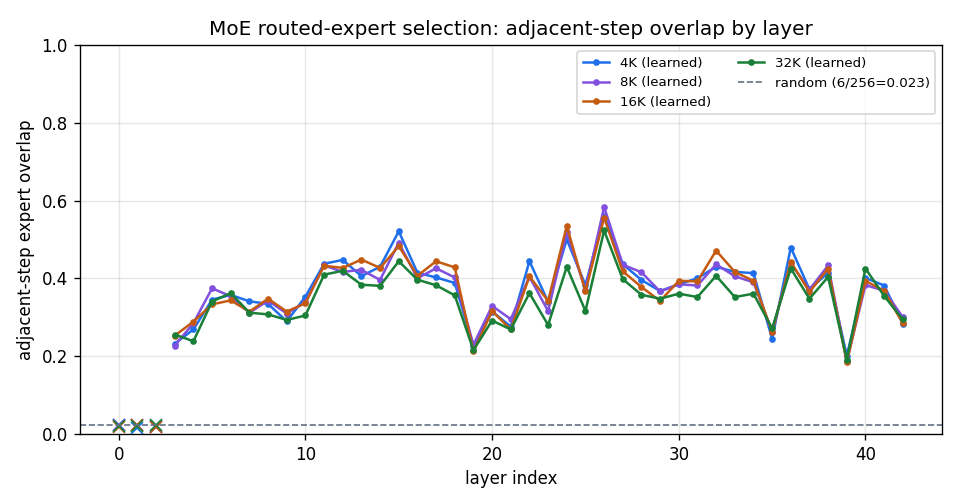
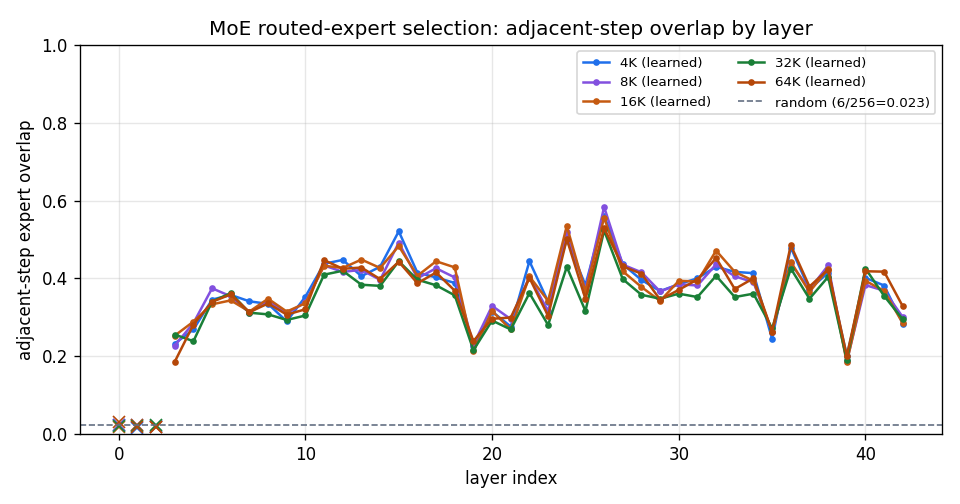
Sparse Attention Part III & IV: add the 64K sweep point
Both ds4 CPU reports now cover 4K/8K/16K/32K/64K. Part III (KV): 64K row in
all six tables; KPIs/plots updated (locality lift 1.7x->21.4x, overlap
plateaus 0.672->0.668 while lift doubles as candidates double; semantic-
over-recency ~6x even at 64K). Part IV (MoE): 64K row in the learned +
retention/working-set tables; context-independence strengthened to 5 points
(0.376/0.373/0.374/0.348/0.369) — the 32K dip recovers at 64K, confirming
it was n=1 noise. Titles/tags/plots refreshed.

Claude-Session: https://claude.ai/code/session_01Cz2EwUkKFPBe3N2CAyfRd1

diff --git a/04_sparse_attn/02_part3_cpu_kv_locality/report.html b/04_sparse_attn/02_part3_cpu_kv_locality/report.html
@@ -3,7 +3,7 @@
 <head>
 <meta charset="UTF-8">
 <meta name="viewport" content="width=device-width, initial-scale=1.0">
-<title>DeepSeek-V4 Sparse Attention — Part III: ds4 CPU KV-Selection Locality (4K–16K)</title>
+<title>DeepSeek-V4 Sparse Attention — Part III: ds4 CPU KV-Selection Locality (4K–64K)</title>
 <style>
   :root{
     color-scheme:light;
@@ -90,7 +90,7 @@
         <span class="tag">DeepSeek-V4-Flash (284B/13B MoE)</span>
         <span class="tag live">measured on CPU via ds4 (IQ2 quant)</span>
         <span class="tag">RULER niah_single_2, n=1 / length</span>
-        <span class="tag">context 4K · 8K · 16K · 32K</span>
+        <span class="tag">context 4K · 8K · 16K · 32K · 64K</span>
       </div>
     </header>
 
@@ -99,9 +99,9 @@
       <p class="lead">Part&nbsp;I measured how <b>predictable</b> DeepSeek-V4's per-token KV selection is on a GPU (vLLM/B200). Here we reproduce the core result on a completely different stack — a CPU-only C reference engine (<code class="k">ds4</code>) running the IQ2-quantized model — as a cross-check, and to instrument the exact same decode path that also emits the MoE routing trace in <a href="../03_part4_moe_locality/report.html">Part&nbsp;IV</a>. The temporal-locality picture holds.</p>
       <div class="headline">
         <div class="kpi"><div class="v">512</div><div class="l">KV entries selected per token, per CSA layer (top-k)</div></div>
-        <div class="kpi"><div class="v">0.87 &rarr; 0.67</div><div class="l">adjacent-step overlap, 4K &rarr; 32K</div></div>
-        <div class="kpi"><div class="v">1.7&times; &rarr; 10.5&times;</div><div class="l">locality lift over a random selection, rising with context</div></div>
-        <div class="kpi"><div class="v">4 / 4</div><div class="l">needle retrievals correct (4K, 8K, 16K, 32K)</div></div>
+        <div class="kpi"><div class="v">0.87 &rarr; 0.67</div><div class="l">adjacent-step overlap, 4K &rarr; 64K</div></div>
+        <div class="kpi"><div class="v">1.7&times; &rarr; 21.4&times;</div><div class="l">locality lift over a random selection, rising with context</div></div>
+        <div class="kpi"><div class="v">5 / 5</div><div class="l">needle retrievals correct (4K, 8K, 16K, 32K, 64K)</div></div>
       </div>
       <div class="callout"><b>Plain-language thesis.</b> The set of compressed-KV entries a token attends to is largely the same as the previous token's — and the further from random that gets (higher <i>lift</i>) as context grows, the more a small "hot set" in fast memory would pay off. This CPU run reproduces the GPU finding on an independent code path.</div>
     </section>
@@ -120,7 +120,7 @@
       <h2><span class="num">§2</span>Setup &amp; instrumentation</h2>
       <ul class="notes">
         <li><b>Engine.</b> <code class="k">ds4</code> — a single-file C CPU inference engine for DeepSeek-V4 — running <b>DeepSeek-V4-Flash</b> at IQ2 quantization (≈81&nbsp;GB), 64 threads, greedy decode (<code class="k">temp&nbsp;0</code>).</li>
-        <li><b>Task.</b> RULER <code class="k">niah_single_2</code> (single needle-in-a-haystack retrieval) at 4K, 8K, 16K, 32K tokens; one sample per length. The model retrieves the buried fact correctly at all four lengths.</li>
+        <li><b>Task.</b> RULER <code class="k">niah_single_2</code> (single needle-in-a-haystack retrieval) at 4K, 8K, 16K, 32K, 64K tokens; one sample per length. The model retrieves the buried fact correctly at all five lengths.</li>
         <li><b>Trace.</b> Every time a CSA layer's indexer selects its top-512, the selected compressed indices (and scores) are written to a JSONL trace — decode phase only — one record per (layer, token). 21 CSA layers of the 43 total.</li>
         <li><b>Analysis.</b> The trace is ingested to Parquet and reduced to the locality metrics below with the same code used for the GPU study, so the two are directly comparable.</li>
       </ul>
@@ -131,9 +131,10 @@
           <tr><td class="rowlabel">8K</td><td class="num">7,485</td><td class="num">163</td><td class="num">1,891</td><td class="num">27.1%</td><td class="num">~1h53m</td></tr>
           <tr><td class="rowlabel">16K</td><td class="num">16,264</td><td class="num">117</td><td class="num">4,080</td><td class="num">12.5%</td><td class="num">~4h22m</td></tr>
           <tr><td class="rowlabel">32K</td><td class="num">32,041</td><td class="num">117</td><td class="num">8,025</td><td class="num">6.4%</td><td class="num">~10h11m</td></tr>
+          <tr><td class="rowlabel">64K</td><td class="num">65,416</td><td class="num">158</td><td class="num">16,374</td><td class="num">3.1%</td><td class="num">~25h54m</td></tr>
         </tbody>
       </table>
-      <p class="cap">"Kept fraction" = 512 / candidate entries. As context grows the same 512-budget is drawn from a larger pool, so sparsity rises from ~2&times; (4K) to ~16&times; (32K).</p>
+      <p class="cap">"Kept fraction" = 512 / candidate entries. As context grows the same 512-budget is drawn from a larger pool, so sparsity rises from ~2&times; (4K) to ~32&times; (64K).</p>
     </section>
 
     <section class="card" id="metrics">
@@ -160,11 +161,12 @@
           <tr><td class="rowlabel">8K</td><td class="num">1,891</td><td class="num">3.7&times;</td><td class="num">0.790</td><td class="num">0.662</td><td class="num">0.210</td><td class="num">2.92&times;</td></tr>
           <tr><td class="rowlabel">16K</td><td class="num">4,080</td><td class="num">8.0&times;</td><td class="num">0.718</td><td class="num">0.573</td><td class="num">0.282</td><td class="num">5.72&times;</td></tr>
           <tr><td class="rowlabel">32K</td><td class="num">8,025</td><td class="num">15.7&times;</td><td class="num">0.672</td><td class="num">0.520</td><td class="num">0.328</td><td class="num">10.53&times;</td></tr>
+          <tr><td class="rowlabel">64K</td><td class="num">16,374</td><td class="num">32.0&times;</td><td class="num">0.668</td><td class="num">0.516</td><td class="num">0.332</td><td class="num">21.37&times;</td></tr>
         </tbody>
       </table>
       <figure>
         <img src="assets/kv_01_context_scaling.png" alt="KV adjacent overlap and locality lift versus context length">
-        <figcaption class="cap">Adjacent overlap (left axis) declines gently while locality lift (right axis) climbs 1.7&times;&rarr;10.5&times; from 4K to 32K. These CPU/IQ2 numbers match the GPU/vLLM values in Part&nbsp;I to within a few thousandths (e.g. 16K: 0.718 here vs 0.746 there).</figcaption>
+        <figcaption class="cap">Adjacent overlap (left axis) declines gently while locality lift (right axis) climbs 1.7&times;&rarr;21.4&times; from 4K to 64K &mdash; note overlap plateaus (0.672&rarr;0.668) while lift doubles, because the candidate pool doubles. These CPU/IQ2 numbers match the GPU/vLLM values in Part&nbsp;I to within a few thousandths (e.g. 16K: 0.718 here vs 0.746 there).</figcaption>
       </figure>
       <div class="callout win"><b>Cross-stack agreement.</b> A completely separate CPU reference engine, at a different quantization, reproduces Part&nbsp;I's context-scaling curve. Temporal locality of KV selection is a property of the model, not the runtime.</div>
     </section>
@@ -179,19 +181,21 @@
           <tr><td class="rowlabel">8K</td><td class="num">0.790</td><td class="num">0.750</td><td class="num">0.712</td><td class="num">0.681</td><td class="num">0.669</td><td class="num">0.630</td><td class="num">0.606</td></tr>
           <tr><td class="rowlabel">16K</td><td class="num">0.718</td><td class="num">0.667</td><td class="num">0.619</td><td class="num">0.573</td><td class="num">0.532</td><td class="num">0.511</td><td class="num">0.498</td></tr>
           <tr><td class="rowlabel">32K</td><td class="num">0.672</td><td class="num">0.622</td><td class="num">0.572</td><td class="num">0.541</td><td class="num">0.518</td><td class="num">0.467</td><td class="num">0.457</td></tr>
+          <tr><td class="rowlabel">64K</td><td class="num">0.668</td><td class="num">0.610</td><td class="num">0.554</td><td class="num">0.508</td><td class="num">0.489</td><td class="num">0.489</td><td class="num">0.469</td></tr>
         </tbody>
       </table>
       <figure>
         <img src="assets/kv_02_retention.png" alt="KV retention versus decode lag for each context length">
-        <figcaption class="cap">Retention vs lag. Even 64 steps back, 4K keeps ~75% and 32K ~46% of the current selection.</figcaption>
+        <figcaption class="cap">Retention vs lag. Even 64 steps back, 4K keeps ~75% and 64K ~47% of the current selection.</figcaption>
       </figure>
-      <p>The <b>working-set ratio</b> shrinks fast with the window — the same entries keep recurring, so a compact hot set covers many steps. Over a 64-step window a CSA layer's union of selections is only 2.6% (4K) to 6.7% (32K) of <code class="k">64&times;512</code>:</p>
+      <p>The <b>working-set ratio</b> shrinks fast with the window — the same entries keep recurring, so a compact hot set covers many steps. Over a 64-step window a CSA layer's union of selections is only 2.6% (4K) to 7.9% (64K) of <code class="k">64&times;512</code>:</p>
       <table>
         <thead><tr><th>working-set ratio, window w &rarr;</th><th class="num">1</th><th class="num">2</th><th class="num">4</th><th class="num">8</th><th class="num">16</th><th class="num">32</th><th class="num">64</th></tr></thead>
         <tbody>
           <tr><td class="rowlabel">4K</td><td class="num">1.000</td><td class="num">0.565</td><td class="num">0.317</td><td class="num">0.176</td><td class="num">0.096</td><td class="num">0.051</td><td class="num">0.026</td></tr>
           <tr><td class="rowlabel">16K</td><td class="num">1.000</td><td class="num">0.640</td><td class="num">0.409</td><td class="num">0.259</td><td class="num">0.163</td><td class="num">0.099</td><td class="num">0.056</td></tr>
           <tr><td class="rowlabel">32K</td><td class="num">1.000</td><td class="num">0.663</td><td class="num">0.437</td><td class="num">0.287</td><td class="num">0.185</td><td class="num">0.115</td><td class="num">0.067</td></tr>
+          <tr><td class="rowlabel">64K</td><td class="num">1.000</td><td class="num">0.665</td><td class="num">0.445</td><td class="num">0.301</td><td class="num">0.202</td><td class="num">0.130</td><td class="num">0.079</td></tr>
         </tbody>
       </table>
     </section>
@@ -199,7 +203,7 @@
     <section class="card" id="semantic">
       <h2><span class="num">§6</span>Semantic reuse, not just recency</h2>
       <p class="lead">Is the model just re-picking the most-recent entries, or genuinely returning to old, relevant ones?</p>
-      <p>Compare the actual adjacent overlap to a <b>recency baseline</b> — the overlap with the most-recent 512 entries. If selection were pure recency, the two would match. Instead the gap widens with context: at 32K the model's selection is <b>6.7&times;</b> more self-similar than a recency policy would explain.</p>
+      <p>Compare the actual adjacent overlap to a <b>recency baseline</b> — the overlap with the most-recent 512 entries. If selection were pure recency, the two would match. Instead the gap widens with context: even at 64K the model's selection is <b>~6&times;</b> more self-similar than a recency policy would explain.</p>
       <table>
         <thead><tr><th>Context</th><th class="num">adjacent overlap</th><th class="num">recency baseline</th><th class="num">ratio</th></tr></thead>
         <tbody>
@@ -207,6 +211,7 @@
           <tr><td class="rowlabel">8K</td><td class="num">0.790</td><td class="num">0.308</td><td class="num">2.6&times;</td></tr>
           <tr><td class="rowlabel">16K</td><td class="num">0.718</td><td class="num">0.157</td><td class="num">4.6&times;</td></tr>
           <tr><td class="rowlabel">32K</td><td class="num">0.672</td><td class="num">0.100</td><td class="num">6.7&times;</td></tr>
+          <tr><td class="rowlabel">64K</td><td class="num">0.668</td><td class="num">0.116</td><td class="num">5.8&times;</td></tr>
         </tbody>
       </table>
       <div class="callout win"><b>Interpretation.</b> The selected set is <b>semantically</b> sticky — it keeps returning to the same old, relevant entries (here, the needle block), far beyond what a "keep the latest" policy captures. A prefetcher must track content, not just recency.</div>
@@ -222,6 +227,7 @@
           <tr><td class="rowlabel">8K</td><td class="num">0.779</td><td class="num">0.778</td><td class="num">0.812</td></tr>
           <tr><td class="rowlabel">16K</td><td class="num">0.713</td><td class="num">0.691</td><td class="num">0.750</td></tr>
           <tr><td class="rowlabel">32K</td><td class="num">0.659</td><td class="num">0.644</td><td class="num">0.711</td></tr>
+          <tr><td class="rowlabel">64K</td><td class="num">0.651</td><td class="num">0.655</td><td class="num">0.698</td></tr>
         </tbody>
       </table>
       <figure>
@@ -233,10 +239,10 @@
     <section class="card" id="takeaways">
       <h2><span class="num">§8</span>Takeaways</h2>
       <ul class="notes">
-        <li>An <b>independent CPU reference engine (ds4, IQ2)</b> reproduces the GPU/vLLM temporal-locality result: adjacent overlap 0.87&rarr;0.67 over 4K&rarr;32K, locality lift 1.7&times;&rarr;10.5&times;.</li>
+        <li>An <b>independent CPU reference engine (ds4, IQ2)</b> reproduces the GPU/vLLM temporal-locality result: adjacent overlap 0.87&rarr;0.67 over 4K&rarr;64K, locality lift 1.7&times;&rarr;21.4&times;.</li>
         <li>Locality <b>lift rises with context</b> — the selection gets more non-random exactly as the KV cache gets expensive.</li>
-        <li>Reuse is <b>semantic, not merely recent</b> — up to 6.7&times; beyond a recency baseline at 32K.</li>
-        <li>A compact hot set works: a 64-step working set is ≤6.7% of <code class="k">64&times;512</code>.</li>
+        <li>Reuse is <b>semantic, not merely recent</b> — ~6&times; beyond a recency baseline even at 64K.</li>
+        <li>A compact hot set works: a 64-step working set is ≤7.9% of <code class="k">64&times;512</code>.</li>
         <li>Deep layers are the most stable → per-layer budgets make sense.</li>
         <li>This CPU decode path is the same one that emits the MoE routing trace in <a href="../03_part4_moe_locality/report.html"><b>Part&nbsp;IV</b></a>.</li>
       </ul>
@@ -245,7 +251,7 @@
     <section class="card" id="limits">
       <h2><span class="num">§9</span>Honest limitations</h2>
       <ul class="notes">
-        <li><b>n = 1 per length.</b> One RULER sample each at 4K/8K/16K/32K — no cross-sample confidence intervals (Part&nbsp;I's 60+ prompts supply that; the point here is cross-stack agreement).</li>
+        <li><b>n = 1 per length.</b> One RULER sample each at 4K/8K/16K/32K/64K — no cross-sample confidence intervals (Part&nbsp;I's 60+ prompts supply that; the point here is cross-stack agreement).</li>
         <li><b>IQ2 quantization + CPU reference path.</b> Selections come from a heavily quantized model on a reference (non-GPU) kernel path; quantization may shift selections slightly versus full precision.</li>
         <li><b>Logical compressed-KV indices.</b> Overlaps are over logical entry ids, not a physical cache — an upper bound that ignores prefetch timing and bandwidth.</li>
         <li><b>Greedy decode, RULER needle task.</b> A single retrieval workload; broader tasks would strengthen external validity.</li>

diff --git a/04_sparse_attn/03_part4_moe_locality/report.html b/04_sparse_attn/03_part4_moe_locality/report.html
@@ -92,7 +92,7 @@
         <span class="tag">DeepSeek-V4-Flash (256 experts / 6 active)</span>
         <span class="tag live">measured on CPU via ds4 (IQ2 quant)</span>
         <span class="tag">RULER niah_single_2, n=1 / length</span>
-        <span class="tag">context 4K · 8K · 16K · 32K</span>
+        <span class="tag">context 4K · 8K · 16K · 32K · 64K</span>
       </div>
     </header>
 
@@ -103,7 +103,7 @@
         <div class="kpi"><div class="v">6 / 256</div><div class="l">experts activated per token, per layer (+1 shared)</div></div>
         <div class="kpi"><div class="v">~2.2 / 6</div><div class="l">experts carried over from the previous token (learned layers)</div></div>
         <div class="kpi"><div class="v">16&times;</div><div class="l">more self-similar than random expert choice (6/256)</div></div>
-        <div class="kpi"><div class="v">flat</div><div class="l">routing locality barely moves across 4K&ndash;32K</div></div>
+        <div class="kpi"><div class="v">flat</div><div class="l">routing locality barely moves across 4K&ndash;64K</div></div>
       </div>
       <div class="callout"><b>Plain-language thesis.</b> A token's chosen experts are substantially the same as the previous token's — about <b>2 of 6</b> persist step to step, 16&times; above chance. Unlike KV selection, this holds <i>independent of context length</i>, because the expert pool is fixed at 256. The three deterministic hash-routed layers are the exception: they are <i>not</i> temporally local, by construction.</div>
     </section>
@@ -124,7 +124,7 @@
       <ul class="notes">
         <li><b>Same run, second trace.</b> We instrumented the <code class="k">ds4</code> CPU decode path so that, right after the router selects its 6 experts, it logs <code class="k">(layer, decode&nbsp;step, token, the 6 expert ids, their weights)</code> — one record per (layer, token), decode phase only. This runs alongside the KV-indexer trace of <a href="../02_part3_cpu_kv_locality/report.html">Part&nbsp;III</a>, from the <i>same</i> forward pass.</li>
         <li><b>Coverage.</b> MoE routing happens in <b>every</b> layer's FFN (43 layers) — denser than the CSA indexer's 21 layers. Of those, 3 are hash-routed and 40 are learned-routed.</li>
-        <li><b>Workload.</b> RULER <code class="k">niah_single_2</code> at 4K, 8K, 16K, 32K; greedy decode; DeepSeek-V4-Flash at IQ2. 117–163 decode steps per run &times; 43 layers &times; 6 experts.</li>
+        <li><b>Workload.</b> RULER <code class="k">niah_single_2</code> at 4K, 8K, 16K, 32K, 64K; greedy decode; DeepSeek-V4-Flash at IQ2. 117–163 decode steps per run &times; 43 layers &times; 6 experts.</li>
         <li><b>Analysis.</b> The same id-set locality metrics used for KV selection, applied to the 6-expert sets, with hash and learned layers reported separately.</li>
       </ul>
     </section>
@@ -151,9 +151,10 @@
           <tr><td class="rowlabel">8K</td><td class="num">0.373</td><td class="num">2.24</td><td class="num">0.256</td><td class="num">0.627</td><td class="num">15.9&times;</td></tr>
           <tr><td class="rowlabel">16K</td><td class="num">0.374</td><td class="num">2.24</td><td class="num">0.256</td><td class="num">0.626</td><td class="num">16.0&times;</td></tr>
           <tr><td class="rowlabel">32K</td><td class="num">0.348</td><td class="num">2.09</td><td class="num">0.235</td><td class="num">0.652</td><td class="num">14.9&times;</td></tr>
+          <tr><td class="rowlabel">64K</td><td class="num">0.369</td><td class="num">2.21</td><td class="num">0.252</td><td class="num">0.631</td><td class="num">15.7&times;</td></tr>
         </tbody>
       </table>
-      <p class="cap">Learned layers only (hash layers excluded). "Experts carried / 6" = adjacent overlap &times; 6. The 32K point dips slightly (0.348 vs ~0.374) — within n=1 content variation, and still ~15&times; random with no KV-like context trend.</p>
+      <p class="cap">Learned layers only (hash layers excluded). "Experts carried / 6" = adjacent overlap &times; 6. The 32K point dips slightly (0.348) but 64K returns to 0.369 — confirming the dip is n=1 content variation, not a trend. Every length stays ~15&times; random, with no KV-like context scaling.</p>
       <figure>
         <img src="assets/moe_01_adjacent_overlap_by_layer.png" alt="MoE adjacent-step expert overlap by layer">
         <figcaption class="cap">Adjacent-step expert overlap per layer. Learned layers (circles) sit near 0.37 — 16&times; the dashed random line at 0.023 — while the three hash-routed layers (×, near the floor) route almost independently step to step.</figcaption>
@@ -163,10 +164,10 @@
     <section class="card" id="context">
       <h2><span class="num">§5</span>It is context-independent — unlike KV selection</h2>
       <p class="lead">The single most striking contrast with the attention side.</p>
-      <p>KV-selection locality <i>changes</i> strongly with context: as the candidate pool grows, the lift rises (Part&nbsp;III: 1.7&times;&rarr;10.5&times; over 4K&rarr;32K). MoE routing does <b>not</b> — its pool is <b>fixed at 256 experts</b> regardless of context, so the routing-locality regime barely moves. The adjacent overlap is <b>0.376 / 0.373 / 0.374 / 0.348</b> at 4K / 8K / 16K / 32K — flat within ~0.03 with no systematic trend (the 32K dip is within n=1 content variation), versus KV's 0.87&rarr;0.67 over the same span.</p>
+      <p>KV-selection locality <i>changes</i> strongly with context: as the candidate pool grows, the lift rises (Part&nbsp;III: 1.7&times;&rarr;21.4&times; over 4K&rarr;64K). MoE routing does <b>not</b> — its pool is <b>fixed at 256 experts</b> regardless of context, so the routing-locality regime barely moves. The adjacent overlap is <b>0.376 / 0.373 / 0.374 / 0.348 / 0.369</b> at 4K / 8K / 16K / 32K / 64K — flat within ~0.03 with no systematic trend (the 32K dip recovers at 64K, so it is n=1 content variation), versus KV's 0.87&rarr;0.67 with lift climbing 1.7&times;&rarr;21.4&times; over the same span.</p>
       <figure>
         <img src="assets/moe_05_context_scaling.png" alt="MoE locality versus context length, essentially flat">
-        <figcaption class="cap">MoE adjacent overlap and lift are flat across context length (note the lift axis is 0-based — the tiny 32K dip is 16.0&rarr;14.9&times;, not a crash). Expert-selection behavior is near-interchangeable across 4K&ndash;32K — a clean consequence of the fixed 256-expert pool.</figcaption>
+        <figcaption class="cap">MoE adjacent overlap and lift are flat across context length (note the lift axis is 0-based — the 32K dip is 16.0&rarr;14.9&times; and 64K recovers to 15.7&times;, not a trend). Expert-selection behavior is near-interchangeable across 4K&ndash;64K — a clean consequence of the fixed 256-expert pool.</figcaption>
       </figure>
       <div class="callout"><b>Why it matters.</b> Sweeping context length is the right axis for studying <i>KV</i> locality (it changes the sparsity regime) but not for <i>MoE</i> locality (it does not). For expert caching, the informative axis is decode <i>length</i> — how long a hot-expert set stays warm — not prompt length.</div>
     </section>
@@ -197,7 +198,7 @@
       <p>Over a decode, each of the 40 learned layers routes with a clear favored set: its single most-used expert fires for <b>22%–85%</b> of tokens (uniform would be 2.3%), just <b>7–32 experts cover 50%</b> of the layer's routing, and normalized entropy is 0.63–0.85 (below the uniform 1.0). The 3 hash layers are near-uniform (top-expert rate 0.12–0.16, ~50 experts for 50%, entropy 0.92) — the control. Yet every learned layer still <i>touches ~half</i> the 256-pool (88–171 distinct experts), so the shape is a <b>concentrated core plus a long exploring tail</b>, never a fixed 6. The peakiest layers (L14, L15: one expert on the committee for 85% of tokens; 7 experts do half the work) cluster mid-stack; the flattest learned layer is L39 (0.22).</p>
 
       <h3>Static preference vs dynamic correlation</h3>
-      <p>Split each layer's overlap into <b>static preference</b> — the overlap you'd get if consecutive tokens were <i>independent</i> draws from that layer's own usage distribution — and <b>dynamic correlation</b> — the excess on top. For the learned layers (consistent across all four lengths: static ~0.17, dynamic ~2.3&times;, corr(static,observed) ≈ +0.85, corr(dynamic,concentration) ≈ &minus;0.82):</p>
+      <p>Split each layer's overlap into <b>static preference</b> — the overlap you'd get if consecutive tokens were <i>independent</i> draws from that layer's own usage distribution — and <b>dynamic correlation</b> — the excess on top. For the learned layers (consistent across all five lengths: static ~0.17, dynamic ~2.3&times;, corr(static,observed) ≈ +0.85, corr(dynamic,concentration) ≈ &minus;0.83):</p>
       <table>
         <thead><tr><th>component</th><th class="num">adjacent overlap</th><th class="num">× over uniform</th><th class="num">what it is</th></tr></thead>
         <tbody>
@@ -236,6 +237,7 @@
           <tr><td class="rowlabel">8K</td><td class="num">0.373</td><td class="num">0.270</td><td class="num">0.207</td><td class="num">0.173</td><td class="num">0.176</td><td class="num">0.150</td><td class="num">0.127</td></tr>
           <tr><td class="rowlabel">16K</td><td class="num">0.374</td><td class="num">0.270</td><td class="num">0.214</td><td class="num">0.167</td><td class="num">0.134</td><td class="num">0.153</td><td class="num">0.144</td></tr>
           <tr><td class="rowlabel">32K</td><td class="num">0.348</td><td class="num">0.258</td><td class="num">0.205</td><td class="num">0.180</td><td class="num">0.180</td><td class="num">0.143</td><td class="num">0.136</td></tr>
+          <tr><td class="rowlabel">64K</td><td class="num">0.369</td><td class="num">0.272</td><td class="num">0.214</td><td class="num">0.171</td><td class="num">0.163</td><td class="num">0.164</td><td class="num">0.160</td></tr>
         </tbody>
       </table>
       <figure>
@@ -249,6 +251,7 @@
           <tr><td class="rowlabel">4K</td><td class="num">1.000</td><td class="num">0.810</td><td class="num">0.666</td><td class="num">0.546</td><td class="num">0.429</td><td class="num">0.311</td><td class="num">0.200</td></tr>
           <tr><td class="rowlabel">16K</td><td class="num">1.000</td><td class="num">0.810</td><td class="num">0.664</td><td class="num">0.537</td><td class="num">0.420</td><td class="num">0.307</td><td class="num">0.195</td></tr>
           <tr><td class="rowlabel">32K</td><td class="num">1.000</td><td class="num">0.823</td><td class="num">0.677</td><td class="num">0.551</td><td class="num">0.427</td><td class="num">0.302</td><td class="num">0.194</td></tr>
+          <tr><td class="rowlabel">64K</td><td class="num">1.000</td><td class="num">0.813</td><td class="num">0.666</td><td class="num">0.542</td><td class="num">0.429</td><td class="num">0.310</td><td class="num">0.198</td></tr>
         </tbody>
       </table>
       <figure>
@@ -273,7 +276,7 @@
       <ul class="notes">
         <li><b>Per-layer structure:</b> every learned layer keeps a preferred committee (7–32 experts do half its routing, one expert often used in the majority of tokens); the ~16× lift ≈ <b>7.4× static preference × 2.3× temporal correlation</b>. Early layers = fixed specialists, deep layers = context trackers; hash layers are near-uniform.</li>
         <li>Learned MoE routing is <b>strongly temporally local</b>: ~0.374 adjacent overlap (~2.2 of 6 experts persist), <b>16&times;</b> the 6/256 random baseline.</li>
-        <li>It is <b>context-independent</b> (0.35–0.38 across 4K/8K/16K/32K, no systematic trend) — the fixed 256-expert pool means prompt length does not change the regime. This contrasts sharply with KV-selection locality, which strengthens with context (lift 1.7&times;&rarr;10.5&times;).</li>
+        <li>It is <b>context-independent</b> (0.35–0.38 across 4K/8K/16K/32K/64K, no systematic trend) — the fixed 256-expert pool means prompt length does not change the regime. This contrasts sharply with KV-selection locality, which strengthens with context (lift 1.7&times;&rarr;10.5&times;).</li>
         <li>The <b>3 hash-routed layers are not local</b> (≈ random) — a property of deterministic token-id routing, reported separately.</li>
         <li>Retention has a <b>durable core</b> (still 6&times; random at lag 64) but the <b>working set is broad</b> (~47% of experts over a full decode).</li>
         <li>Collected from the <b>same decode pass</b> as the KV trace in <a href="../02_part3_cpu_kv_locality/report.html"><b>Part&nbsp;III</b></a>, so attention- and FFN-sparsity are aligned per (layer, step).</li>
@@ -284,7 +287,7 @@
       <h2><span class="num">§11</span>Honest limitations</h2>
       <ul class="notes">
         <li><b>n = 1 per length</b>, IQ2 quantization, CPU reference path — quantization can shift the router's top-6 versus full precision; no cross-sample confidence intervals.</li>
-        <li><b>Context sweep is the wrong axis for MoE.</b> Because the expert pool is fixed, 4K/8K/16K/32K mostly vary token content, not the sparsity regime; a <b>decode-length</b> sweep would probe how long the hot-expert set stays warm (future work).</li>
+        <li><b>Context sweep is the wrong axis for MoE.</b> Because the expert pool is fixed, 4K&ndash;64K mostly vary token content, not the sparsity regime; a <b>decode-length</b> sweep would probe how long the hot-expert set stays warm (future work).</li>
         <li><b>Logical expert ids, not a physical cache</b> — overlaps are an upper bound that ignores expert-load timing and bandwidth.</li>
         <li><b>Greedy decode on a single retrieval task</b> (RULER needle); other tasks and samplers may route differently.</li>
       </ul>
